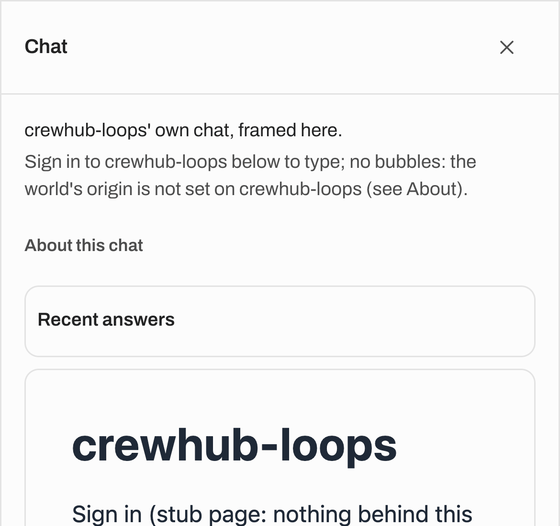
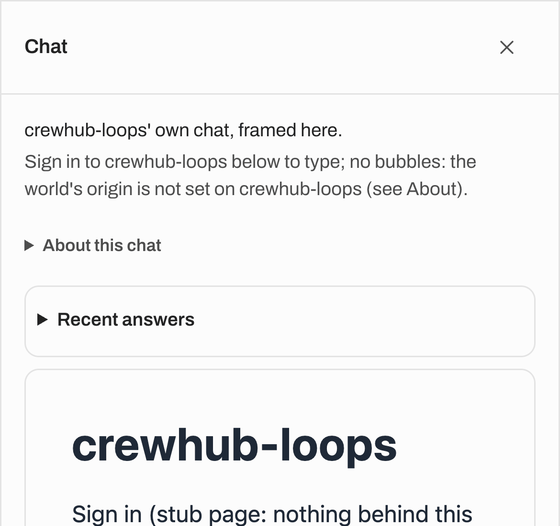
world: the Chat panel's 40 px rows keep their disclosure triangles, and reach a phone held sideways (w4-21, s1's review)
s1's review of 08ec5ae0: `display: flex` on a summary drops its list-item marker, so on a phone "About this chat" and
"Recent answers" lost their triangles: "About this chat" read as a plain heading with nothing to say it opens. The rule
measured height only, so it stayed green; my own after picture showed it and I missed it.

Now padding, not flex (s1's measured cure): `min-height`, `padding-block: calc((var(--control-h-touch) - 1lh) / 2)` and
`box-sizing: border-box`; the summaries stay list items. A second finding of the review, not blocking and taken here: a
phone held sideways is wider than 600 px and kept 18 and 20 px, so the rule is now `(max-width: 600px), (pointer: coarse)`.
A fine pointer in a wide window is unchanged (18 and 20 px at 1440). The rule moved beside the two rows' own rules, so
this branch no longer meets w4-12 in world.css.

Red first: tools/a11y.mjs' rule also holds the marker (`display: list-item`). On 08ec5ae0: flex at 375 and on an iPhone 13
profile, 18 and 20 px on the iPhone 13 landscape profile. Now list-item at 40 px on all three. The after picture is
retaken.

Changed region(s): [[0.0607, 0.5779, 0.3643, 0.6388], [0.0304, 0.4563, 0.3036, 0.4867]]

diff --git a/apps/world/src/styles/world.css b/apps/world/src/styles/world.css
@@ -1022,15 +1022,6 @@
   .settings-sheet {
     top: 3.75rem;
   }
-  /* The Chat panel's disclosure rows ("About this chat", "Recent answers") are thumb-sized (round 65, w4-21): 40 px
-     rows. Not a pad as the signs have: the rows stand in a stack with tappable rows right under them, and a pad would
-     reach into those. */
-  .chat-about > summary,
-  .chat-recent > summary {
-    display: flex;
-    align-items: center;
-    min-height: var(--control-h-touch);
-  }
 }
 
 /* ── Chat bubbles: the copied loops dock and chat (components/bubbles) ───────
@@ -2393,6 +2384,17 @@ a.agent-ticket-link:focus-visible {
 }
 .chat-about[open] > summary {
   margin-bottom: var(--space-1);
+}
+/* On a phone, upright or sideways, the two disclosure rows are thumb-sized (round 65, w4-21): 40 px rows. Not a pad as the
+   signs have: the rows stand in a stack with tappable rows right under them, and a pad would reach into those. Padding,
+   not flex: a summary stays a list item, and its triangle says it opens. */
+@media (max-width: 600px), (pointer: coarse) {
+  .chat-about > summary,
+  .chat-recent > summary {
+    box-sizing: border-box;
+    min-height: var(--control-h-touch);
+    padding-block: calc((var(--control-h-touch) - 1lh) / 2);
+  }
 }
 .chat-sheet-dock {
   font-size: var(--text-xs);
